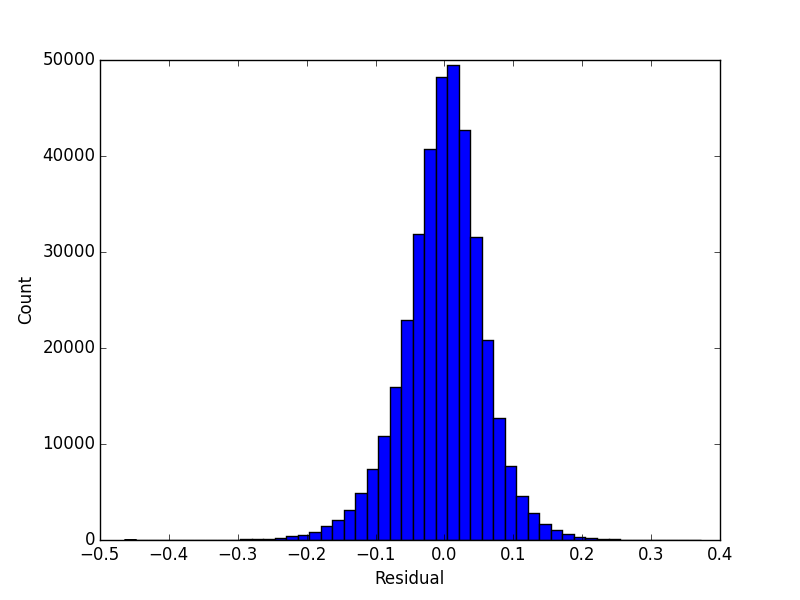
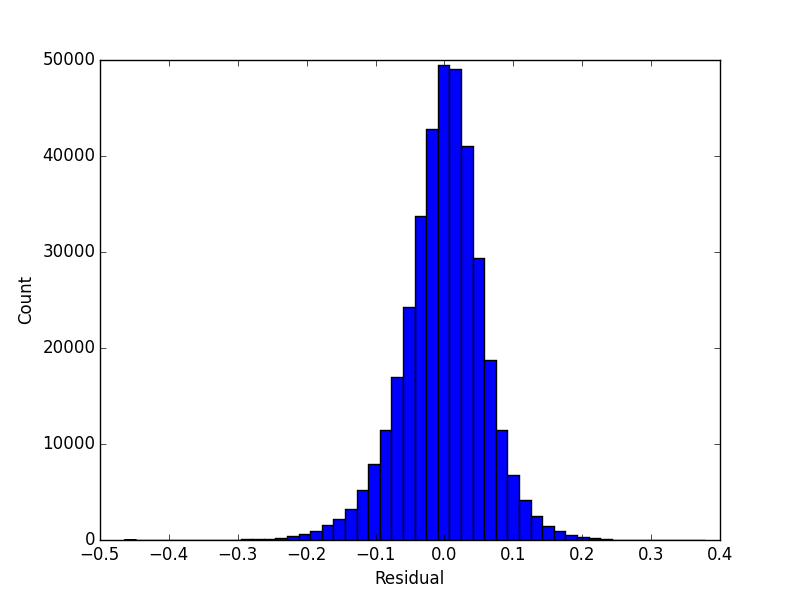
Adds cross validation

Changed region(s): [[0.375, 0.09, 0.75, 0.9]]

diff --git a/curtislb_mtonbari_hw2.py b/curtislb_mtonbari_hw2.py
@@ -1,17 +1,33 @@
 import math
 import matplotlib.pyplot as plt
 import numpy as np
+import sklearn.cross_validation as cv
 import sklearn.linear_model as lm
 from sklearn.metrics import mean_squared_error, r2_score
-from sklearn.preprocessing import Imputer
 
 # N_FEATURES = 33
 N_FEATURES = 99
 CHR1_LINES = 379551
 
+def mean_vals(arr):
+    total = 0.0
+    count = 0
+    for x in arr:
+        if not math.isnan(x):
+            total += x
+            count += 1
+    return total / count
+
+def impute_mean(arr):
+    mean = mean_vals(arr)
+    for i in xrange(len(arr)):
+        if math.isnan(arr[i]):
+            arr[i] = mean
+    return arr
+
 def parse_line(l):
     tokens = l.rstrip().split()
-    return int(tokens[1]), [float(b) for b in tokens[4:-1]]
+    return int(tokens[1]), impute_mean([float(b) for b in tokens[4:-1]])
 
 def beta_from_train(fname, fsize):
     with open(fname) as f:
@@ -22,7 +38,6 @@ def beta_from_train(fname, fsize):
         i = 0
 #         for line in f:
 #             row = parse_line(line)[1]
-#             X[i,:] = np.array(row)
         while line != '':
             prev_pos, prev_beta = curr_pos, curr_beta
             curr_pos, curr_beta = next_pos, next_beta
@@ -33,6 +48,7 @@ def beta_from_train(fname, fsize):
 #             row.append(next_pos - curr_pos)
             row.extend(next_beta)
             line = f.readline()
+            X[i,:] = np.array(row)
             i += 1
         return X
 
@@ -83,24 +99,39 @@ def analyze(y_true, y_pred, method=''):
     print method, 'RMSE =', math.sqrt(mean_squared_error(y_true, y_pred))
     res = residuals(y_true, y_pred)
     plt.clf()
-    plt.hist(res, 50)
+    plt.hist(res, bins=50)
     plt.xlabel('Residual')
     plt.ylabel('Count')
     plt.savefig(method + '_residuals.png')
 
 if __name__ == '__main__':
     X = beta_from_train('data/intersected_final_chr1_cutoff_20_train_revised.bed', CHR1_LINES)
-    X = Imputer(strategy='mean', axis=1).transform(X)
-    
     y_true = sample_vals_from_file('data/intersected_final_chr1_cutoff_20_test.bed', CHR1_LINES)[1:-1]
     train_mask, test_mask = train_test_sample_masks('data/intersected_final_chr1_cutoff_20_test.bed', CHR1_LINES)
     
 #     # Naive mean imputation
 #     y_pred = naive_mean_impute(X)
-#     analyze(y_true[test_mask], y_pred[test_mask], 'NaiveMean')
+#     analyze(y_true[test_mask], y_pred[test_mask], 'NaiveMean_neighbor')
 
-    # Linear model imputation
-    model = lm.PassiveAggressiveRegressor()
-    model.fit(X[train_mask], y_true[train_mask])
-    y_pred = model.predict(X[test_mask])
-    analyze(y_true[test_mask], y_pred, 'PassiveAggressiveRegressor_neighbor')
+#     # Linear model imputation
+#     model = lm.LinearRegression()
+#     model.fit(X[train_mask], y_true[train_mask])
+#     y_pred = model.predict(X[test_mask])
+#     analyze(y_true[test_mask], y_pred, 'LinearRegression_cv')
+
+    val_mask = train_mask | test_mask
+    X = X[val_mask]
+    y_true = y_true[val_mask]
+    
+    # K-fold cross validation
+    kf = cv.KFold(len(y_true), n_folds=5)
+    model = lm.SGDRegressor()
+    fold = 1
+    for train, test in kf:
+        print '--- Fold', fold, '-------------------'
+#         y_pred = naive_mean_impute(X[test])
+#         analyze(y_true[test], y_pred, 'NaiveMean_neighbor_cv' + str(fold))
+        model.fit(X[train], y_true[train])
+        y_pred = model.predict(X[test])
+        analyze(y_true[test], y_pred, 'SGDRegressor_neighbor_cv' + str(fold))
+        fold += 1
